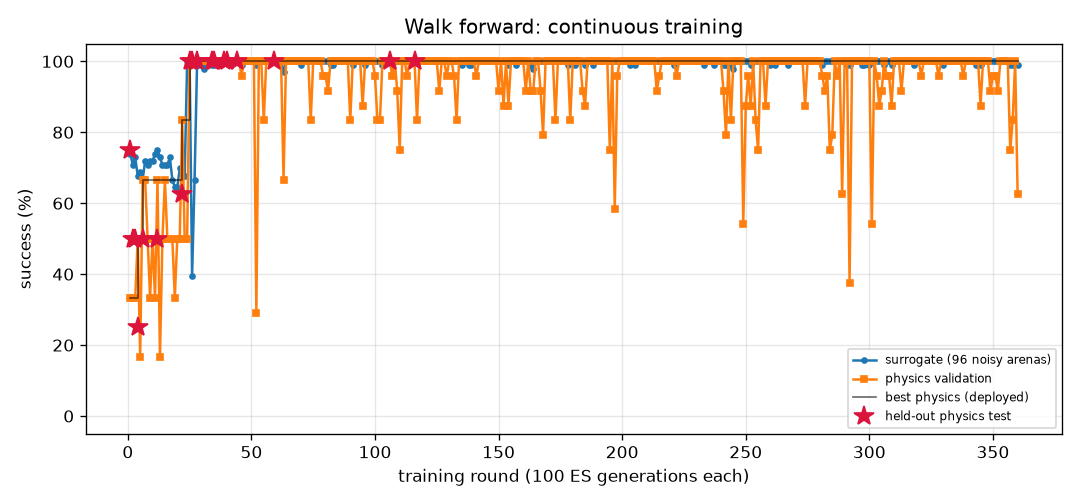
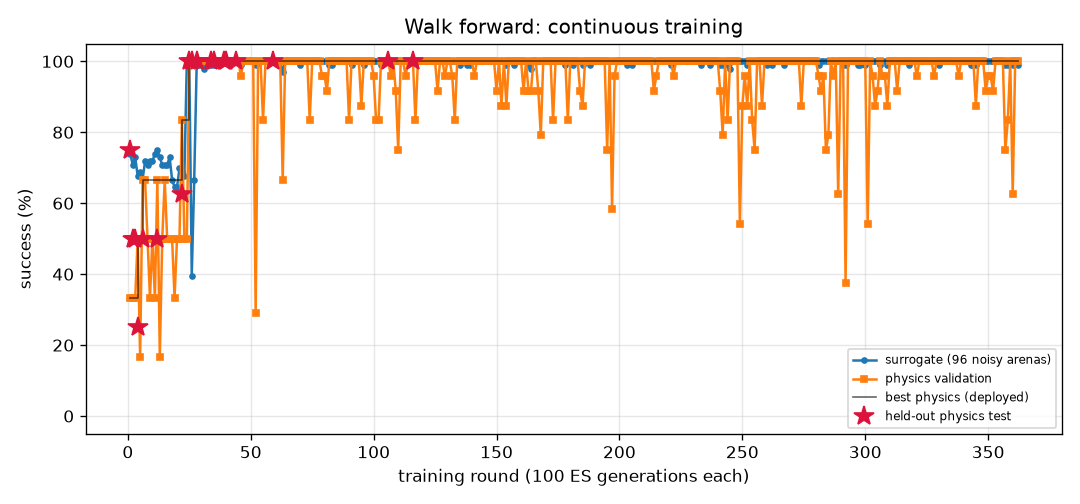
FlyLab: continuous training progress
- walk_forward: optimal, physics val 100% of 24, round 362
- turn: optimal, physics val 100% of 24, round 996
- goto: optimal, physics val 100% of 24, round 284
- odor_seek: optimal, physics val 100% of 24, round 232
- odor_avoid: optimal, physics val 100% of 24, round 882
- light_seek: optimal, physics val 100% of 24, round 483
- light_avoid: optimal, physics val 100% of 24, round 612

diff --git a/projects/09_flylab/training/turn/REPORT.md b/projects/09_flylab/training/turn/REPORT.md
@@ -1,14 +1,14 @@
 # Turn in place (`turn`) — training report
 
-*Auto-generated by `train_brains.py`, last updated 2026-11-10T21:23:37.*
+*Auto-generated by `train_brains.py`, last updated 2026-11-11T19:12:23.*
 
 ![curve](curve.png)
 
 | | |
 |---|---|
-| rounds | 990 |
-| ES generations | 99000 |
-| physics runs | 24006 |
+| rounds | 996 |
+| ES generations | 99600 |
+| physics runs | 24150 |
 | status | **optimal** |
 | best brain | round 80: physics validation **100%** on 24 arenas, surrogate 100% |
 | held-out physics test | **97%** on 32 unseen arenas (95% CI 84%-99%) (errors: [1.6, 3.3, 6.3, 3.7, 1.1, 0.4, 2.4, 2.9, 0.1, 2.6, 0.5, 2.7, 1.5, 3.1, 4.5, 0.2, 0.5, 1.1, 2.0, 4.4, 2.8, 3.2, 0.3, 2.2, 0.5, 3.0, 0.3, 5.4, 0.4, 1.0, 4.7, 10.7]) |
@@ -17,12 +17,6 @@ Physics error per arena: deg from target heading (< 20 = success).
 
 | round | level | gens | sigma | surrogate | physics val | val errors | test | note |
 |---:|---:|---:|---:|---:|---:|---|---:|---|
-| 951 | 3 | 95100 | 0.025 | 99% | 79% | [1.7, 0.5, 1.8, 2.1, 0.7, 0.7, 4.3, 8.8, 6.9, 0.1, 4.8, 1.7, 0.0, 0.4, 5.0, 2.1, 1.7, 2.6, 3.5, 3.9, 4.8, 1.0, 6.0, 6.0] |  |  |
-| 952 | 3 | 95200 | 0.025 | 99% | 88% | [1.6, 1.9, 2.9, 0.9, 0.5, 1.0, 5.1, 4.3, 4.8, 0.7, 3.8, 1.6, 0.7, 2.0, 3.9, 0.6, 1.4, 0.4, 0.6, 1.1, 1.8, 2.3, 6.9, 0.5] |  | restart from best |
-| 953 | 3 | 95300 | 0.024 | 99% | 83% | [2.8, 0.7, 5.0, 0.0, 1.2, 3.0, 6.4, 8.8, 7.0, 2.6, 5.4, 0.7, 0.2, 0.5, 4.7, 1.3, 1.1, 4.4, 0.9, 2.8, 4.4, 1.7, 7.2, 3.4] |  |  |
-| 954 | 3 | 95400 | 0.025 | 99% | 83% | [7.4, 8.3, 2.0, 0.4, 3.5, 2.5, 4.6, 1.4, 4.1, 0.9, 4.2, 0.5, 0.4, 3.4, 3.7, 1.7, 0.6, 1.4, 1.9, 0.7, 4.2, 1.2, 4.9, 4.8] |  |  |
-| 955 | 3 | 95500 | 0.025 | 99% | 83% | [6.0, 3.6, 2.7, 0.1, 5.3, 0.0, 5.7, 8.1, 5.6, 14.2, 4.5, 0.5, 0.4, 0.4, 5.1, 10.7, 0.3, 1.6, 11.9, 2.2, 6.5, 0.2, 6.4, 5.9] |  |  |
-| 956 | 3 | 95600 | 0.025 | 99% | 83% | [7.6, 2.4, 5.6, 3.4, 2.8, 2.5, 5.7, 1.5, 5.8, 2.7, 6.8, 1.6, 0.5, 1.0, 5.6, 3.0, 2.5, 4.2, 3.1, 3.5, 2.8, 1.7, 8.2, 9.6] |  | restart from best |
 | 957 | 3 | 95700 | 0.024 | 100% | 96% | [0.1, 3.4, 13.9, 2.7, 14.5, 0.7, 4.2, 8.3, 4.9, 1.4, 3.8, 0.4, 1.1, 2.1, 2.5, 0.3, 0.3, 0.9, 0.1, 1.6, 4.2, 0.8, 4.9, 3.9] |  |  |
 | 958 | 3 | 95800 | 0.024 | 99% | 92% | [3.9, 8.9, 2.7, 3.6, 1.6, 4.0, 3.0, 2.6, 4.0, 0.2, 4.5, 0.9, 2.7, 2.7, 1.5, 0.7, 0.9, 1.0, 0.3, 2.4, 6.2, 0.5, 3.5, 0.8] |  |  |
 | 959 | 3 | 95900 | 0.025 | 98% | 96% | [10.7, 4.5, 15.9, 1.9, 18.0, 18.0, 7.3, 10.2, 7.0, 3.3, 4.4, 1.7, 1.4, 0.5, 2.2, 4.2, 1.9, 5.5, 16.9, 16.1, 2.4, 3.2, 8.1, 5.3] |  |  |
@@ -57,3 +51,9 @@ Physics error per arena: deg from target heading (< 20 = success).
 | 988 | 3 | 98800 | 0.024 | 100% | 75% | [0.4, 1.0, 4.8, 1.8, 16.1, 2.9, 5.4, 9.6, 5.8, 1.9, 5.0, 1.4, 4.1, 1.7, 5.7, 2.6, 1.8, 3.8, 2.5, 1.3, 4.3, 2.0, 6.9, 5.5] |  | restart from best |
 | 989 | 3 | 98900 | 0.024 | 97% | 79% | [6.6, 10.0, 1.1, 1.4, 3.3, 0.2, 2.9, 5.6, 3.0, 0.5, 2.7, 2.4, 2.3, 5.0, 1.8, 0.6, 2.9, 0.2, 1.1, 1.2, 6.6, 1.0, 4.0, 5.1] |  |  |
 | 990 | 3 | 99000 | 0.026 | 100% | 88% | [1.4, 2.7, 4.5, 0.2, 0.7, 4.5, 7.2, 8.9, 7.2, 15.6, 4.5, 1.8, 2.4, 0.2, 4.8, 4.1, 2.1, 2.2, 4.3, 3.3, 0.1, 4.2, 6.8, 4.9] |  |  |
+| 991 | 3 | 99100 | 0.024 | 99% | 88% | [7.1, 7.4, 6.6, 0.1, 1.6, 1.1, 2.4, 2.3, 3.1, 0.7, 3.3, 1.0, 2.5, 0.4, 3.9, 1.1, 0.5, 0.2, 1.0, 1.1, 5.6, 1.0, 2.8, 2.2] |  |  |
+| 992 | 3 | 99200 | 0.025 | 98% | 79% | [6.7, 1.2, 3.0, 2.1, 0.1, 4.2, 4.5, 0.1, 5.4, 1.8, 5.5, 0.1, 2.7, 0.1, 5.9, 1.7, 2.2, 2.4, 2.1, 1.2, 5.7, 1.6, 7.3, 8.7] |  | restart from best |
+| 993 | 3 | 99300 | 0.024 | 95% | 92% | [13.5, 13.6, 11.5, 8.0, 8.7, 3.0, 3.7, 12.4, 4.0, 7.8, 0.4, 8.2, 5.9, 5.6, 1.4, 8.5, 7.0, 5.8, 8.5, 8.6, 11.5, 3.4, 2.5, 9.0] |  |  |
+| 994 | 3 | 99400 | 0.027 | 100% | 88% | [3.7, 7.3, 2.4, 2.2, 2.7, 2.1, 4.7, 6.0, 4.5, 0.4, 3.8, 0.9, 1.2, 4.3, 2.3, 1.0, 1.5, 0.5, 2.5, 2.1, 4.6, 2.1, 4.0, 4.4] |  |  |
+| 995 | 3 | 99500 | 0.024 | 99% | 79% | [0.2, 1.9, 0.7, 2.9, 0.5, 0.8, 5.1, 5.7, 5.4, 1.3, 4.7, 1.1, 1.2, 2.6, 4.3, 0.6, 1.4, 1.8, 0.5, 1.1, 3.8, 1.1, 5.5, 6.2] |  |  |
+| 996 | 3 | 99600 | 0.025 | 100% | 100% | [1.9, 4.9, 3.1, 0.7, 1.5, 2.7, 3.6, 3.1, 4.0, 0.5, 2.7, 0.7, 2.0, 0.9, 1.4, 2.0, 0.8, 0.4, 1.8, 1.1, 2.9, 0.8, 6.3, 1.0] |  | restart from best |

diff --git a/projects/09_flylab/training/walk_forward/REPORT.md b/projects/09_flylab/training/walk_forward/REPORT.md
@@ -1,14 +1,14 @@
 # Walk forward (`walk_forward`) — training report
 
-*Auto-generated by `train_brains.py`, last updated 2026-11-10T23:09:21.*
+*Auto-generated by `train_brains.py`, last updated 2026-11-10T23:31:06.*
 
 ![curve](curve.png)
 
 | | |
 |---|---|
-| rounds | 360 |
-| ES generations | 36000 |
-| physics runs | 8654 |
+| rounds | 362 |
+| ES generations | 36200 |
+| physics runs | 8702 |
 | status | **optimal** |
 | best brain | round 116: physics validation **100%** on 24 arenas, surrogate 100% |
 | held-out physics test | **100%** on 32 unseen arenas (95% CI 89%-100%) (errors: [0.13, 0.16, 0.19, 0.16, 0.15, 0.2, 0.17, 0.18, 0.17, 0.19, 0.2, 0.14, 0.17, 0.19, 0.2, 0.2, 0.13, 0.19, 0.16, 0.2, 0.2, 0.16, 0.17, 0.2, 0.13, 0.15, 0.18, 0.14, 0.16, 0.15, 0.19, 0.12]) |
@@ -17,8 +17,6 @@ Physics error per arena: mm from target at the end (< 1.5 and standing still = s
 
 | round | level | gens | sigma | surrogate | physics val | val errors | test | note |
 |---:|---:|---:|---:|---:|---:|---|---:|---|
-| 321 | 3 | 32100 | 0.024 | 100% | 96% | [0.09, 0.21, 0.1, 0.07, 0.14, 0.18, 0.19, 0.25, 0.14, 0.22, 0.19, 0.19, 0.24, 0.2, 0.06, 0.18, 0.06, 0.12, 0.14, 0.06, 0.16, 0.22, 0.17, 0.24] |  |  |
-| 322 | 3 | 32200 | 0.024 | 100% | 100% | [0.12, 0.19, 0.1, 0.16, 0.19, 0.08, 0.2, 0.07, 0.19, 0.26, 0.05, 0.24, 0.1, 0.08, 0.2, 0.25, 0.1, 0.2, 0.07, 0.15, 0.06, 0.24, 0.16, 0.1] |  |  |
 | 323 | 3 | 32300 | 0.024 | 100% | 100% | [0.24, 0.31, 0.21, 0.23, 0.31, 0.22, 0.3, 0.21, 0.31, 0.31, 0.22, 0.29, 0.21, 0.22, 0.26, 0.29, 0.23, 0.29, 0.21, 0.27, 0.22, 0.3, 0.28, 0.21] |  |  |
 | 324 | 3 | 32400 | 0.024 | 100% | 100% | [0.27, 0.27, 0.21, 0.26, 0.26, 0.19, 0.26, 0.24, 0.27, 0.24, 0.18, 0.18, 0.23, 0.2, 0.29, 0.22, 0.26, 0.28, 0.25, 0.28, 0.25, 0.24, 0.25, 0.23] |  | restart from best |
 | 325 | 3 | 32500 | 0.024 | 100% | 100% | [0.2, 0.26, 0.06, 0.2, 0.26, 0.06, 0.25, 0.16, 0.26, 0.24, 0.18, 0.23, 0.16, 0.06, 0.23, 0.24, 0.18, 0.25, 0.16, 0.24, 0.16, 0.24, 0.22, 0.15] |  |  |
@@ -57,3 +55,5 @@ Physics error per arena: mm from target at the end (< 1.5 and standing still = s
 | 358 | 3 | 35800 | 0.025 | 99% | 83% | [0.27, 0.28, 1.15, 0.27, 0.29, 0.52, 0.29, 0.19, 0.29, 0.06, 0.52, 0.06, 0.05, 0.96, 0.29, 0.08, 0.25, 0.29, 0.23, 0.29, 0.24, 0.06, 0.07, 0.03] |  |  |
 | 359 | 3 | 35900 | 0.025 | 100% | 100% | [0.27, 0.28, 0.21, 0.26, 0.28, 0.21, 0.28, 0.22, 0.28, 0.26, 0.21, 0.25, 0.21, 0.21, 0.28, 0.25, 0.25, 0.28, 0.22, 0.28, 0.24, 0.26, 0.24, 0.21] |  |  |
 | 360 | 3 | 36000 | 0.024 | 99% | 62% | [0.48, 0.21, 0.03, 0.65, 0.21, 0.32, 0.22, 0.27, 0.22, 0.24, 0.54, 0.24, 3.08, 0.28, 0.05, 0.24, 0.7, 0.19, 0.57, 0.08, 0.12, 0.25, 0.24, 0.38] |  | restart from best |
+| 361 | 3 | 36100 | 0.024 | 100% | 100% | [0.3, 0.1, 0.27, 0.3, 0.05, 0.24, 0.06, 0.3, 0.07, 0.12, 0.23, 0.18, 0.3, 0.25, 0.29, 0.18, 0.31, 0.28, 0.31, 0.29, 0.32, 0.18, 0.22, 0.3] |  |  |
+| 362 | 3 | 36200 | 0.024 | 99% | 100% | [0.09, 0.1, 0.21, 0.11, 0.08, 0.2, 0.12, 0.22, 0.1, 0.12, 0.19, 0.15, 0.21, 0.2, 0.08, 0.15, 0.11, 0.11, 0.23, 0.05, 0.22, 0.13, 0.15, 0.21] |  |  |

diff --git a/projects/09_flylab/training/light_seek/REPORT.md b/projects/09_flylab/training/light_seek/REPORT.md
@@ -1,14 +1,14 @@
 # Walk toward light (`light_seek`) — training report
 
-*Auto-generated by `train_brains.py`, last updated 2026-11-10T23:06:55.*
+*Auto-generated by `train_brains.py`, last updated 2026-11-10T23:22:00.*
 
 ![curve](curve.png)
 
 | | |
 |---|---|
-| rounds | 482 |
-| ES generations | 48200 |
-| physics runs | 8448 |
+| rounds | 483 |
+| ES generations | 48300 |
+| physics runs | 8472 |
 | status | **optimal** |
 | best brain | round 375: physics validation **100%** on 24 arenas, surrogate 100% |
 | held-out physics test | **100%** on 32 unseen arenas (95% CI 89%-100%) (errors: [0.57, 0.54, 0.53, 0.57, 0.55, 0.56, 0.59, 0.56, 0.53, 0.56, 0.71, 0.56, 0.55, 0.54, 0.53, 0.54, 0.54, 0.55, 0.52, 0.65, 0.64, 0.7, 0.58, 0.57, 0.6, 0.62, 0.55, 0.88, 0.54, 0.52, 0.62, 0.57]) |
@@ -17,7 +17,6 @@ Physics error per arena: mm from target at the end (< 1.5 and standing still = s
 
 | round | level | gens | sigma | surrogate | physics val | val errors | test | note |
 |---:|---:|---:|---:|---:|---:|---|---:|---|
-| 443 | 3 | 44300 | 0.024 | 100% | 96% | [0.57, 0.6, 0.61, 0.67, 0.6, 0.6, 0.67, 0.64, 0.62, 0.58, 0.76, 0.65, 0.69, 0.79, 0.72, 0.62, 0.61, 0.59, 0.57, 0.57, 2.08, 0.71, 0.63, 0.66] |  | restart from best |
 | 444 | 3 | 44400 | 0.024 | 100% | 100% | [0.87, 0.54, 0.51, 0.54, 0.48, 0.63, 0.57, 0.5, 1.31, 0.52, 0.65, 0.49, 0.6, 0.56, 0.52, 0.5, 0.57, 0.51, 0.52, 0.59, 0.52, 0.49, 0.59, 0.58] |  |  |
 | 445 | 3 | 44500 | 0.024 | 100% | 96% | [0.57, 0.67, 0.59, 2.65, 0.59, 0.65, 0.59, 0.74, 0.73, 0.63, 0.68, 0.65, 0.67, 0.56, 0.82, 0.65, 0.6, 0.68, 0.59, 0.58, 0.66, 0.61, 0.78, 0.67] |  |  |
 | 446 | 3 | 44600 | 0.024 | 100% | 83% | [0.73, 0.64, 1.6, 0.7, 0.57, 1.27, 1.56, 0.62, 1.31, 0.69, 0.6, 0.95, 0.63, 0.63, 0.54, 0.64, 0.66, 0.52, 0.57, 0.53, 0.66, 0.78, 1.49, 0.6] |  |  |
@@ -57,3 +56,4 @@ Physics error per arena: mm from target at the end (< 1.5 and standing still = s
 | 480 | 3 | 48000 | 0.024 | 100% | 100% | [0.89, 0.64, 0.49, 0.48, 0.51, 0.5, 0.6, 0.61, 0.49, 0.58, 0.51, 0.55, 0.55, 0.58, 0.47, 0.53, 0.48, 0.5, 0.46, 0.49, 0.54, 0.58, 0.54, 0.6] |  |  |
 | 481 | 3 | 48100 | 0.024 | 100% | 100% | [0.58, 0.57, 0.49, 0.55, 0.57, 0.75, 0.62, 0.59, 0.56, 0.52, 0.56, 0.71, 0.49, 0.56, 0.63, 0.63, 0.62, 0.66, 0.62, 0.58, 0.59, 0.61, 0.61, 0.57] |  |  |
 | 482 | 3 | 48200 | 0.024 | 100% | 100% | [0.58, 0.92, 0.52, 0.64, 0.87, 0.52, 0.56, 0.62, 0.94, 0.55, 0.58, 0.74, 0.64, 0.53, 0.5, 0.59, 0.78, 0.64, 0.89, 0.58, 0.56, 0.55, 0.55, 0.55] |  |  |
+| 483 | 3 | 48300 | 0.024 | 100% | 100% | [0.58, 0.53, 0.8, 0.54, 0.51, 0.51, 0.51, 0.68, 0.59, 0.51, 0.87, 0.5, 0.55, 0.89, 0.88, 0.5, 0.56, 0.51, 0.51, 0.53, 0.46, 0.62, 0.81, 0.52] |  | restart from best |

diff --git a/projects/09_flylab/training/TRAINING.md b/projects/09_flylab/training/TRAINING.md
@@ -1,15 +1,15 @@
 # FlyLab brains — continuous training log
 
-*Auto-generated by `train_brains.py`, last updated 2026-11-10T23:09:21.*
+*Auto-generated by `train_brains.py`, last updated 2026-11-11T19:12:23.*
 
 Every skill has its own brain and its own training process: surrogate ES rounds, physics validation in MuJoCo, keep-the-best selection, and a held-out physics test that is never used for selection. See each skill's report for its full round-by-round history. Mastery is progressive: passing a level (100% physics validation, >=95% surrogate) doubles the validation and test arena sets; a brain is **optimal** once it holds up at level 3 (>=95% of 24 validation arenas) AND scores >=90% on the 32 held-out test arenas. Test columns show 95% Wilson confidence intervals.
 
 | skill | rounds | ES generations | physics runs | surrogate | physics val | **physics test** | status |
 |---|---:|---:|---:|---:|---:|---:|---|
-| [Walk forward](walk_forward/REPORT.md) | 360 | 36000 | 8654 | 100% | 100% of 24 | 100% of 32 (CI 89-100%) | **optimal** |
-| [Turn in place](turn/REPORT.md) | 990 | 99000 | 24006 | 100% | 100% of 24 | 97% of 32 (CI 84-99%) | **optimal** |
+| [Walk forward](walk_forward/REPORT.md) | 362 | 36200 | 8702 | 100% | 100% of 24 | 100% of 32 (CI 89-100%) | **optimal** |
+| [Turn in place](turn/REPORT.md) | 996 | 99600 | 24150 | 100% | 100% of 24 | 97% of 32 (CI 84-99%) | **optimal** |
 | [Go to a location](goto/REPORT.md) | 284 | 28400 | 6766 | 100% | 100% of 24 | 100% of 32 (CI 89-100%) | **optimal** |
 | [Find food by smell](odor_seek/REPORT.md) | 232 | 23200 | 4998 | 100% | 100% of 24 | 100% of 32 (CI 89-100%) | **optimal** |
 | [Escape a bad smell](odor_avoid/REPORT.md) | 882 | 88200 | 18474 | 97% | 100% of 24 | 97% of 32 (CI 84-99%) | **optimal** |
-| [Walk toward light](light_seek/REPORT.md) | 482 | 48200 | 8448 | 100% | 100% of 24 | 100% of 32 (CI 89-100%) | **optimal** |
+| [Walk toward light](light_seek/REPORT.md) | 483 | 48300 | 8472 | 100% | 100% of 24 | 100% of 32 (CI 89-100%) | **optimal** |
 | [Hide from light](light_avoid/REPORT.md) | 612 | 61200 | 14960 | 100% | 100% of 24 | 100% of 32 (CI 89-100%) | **optimal** |
